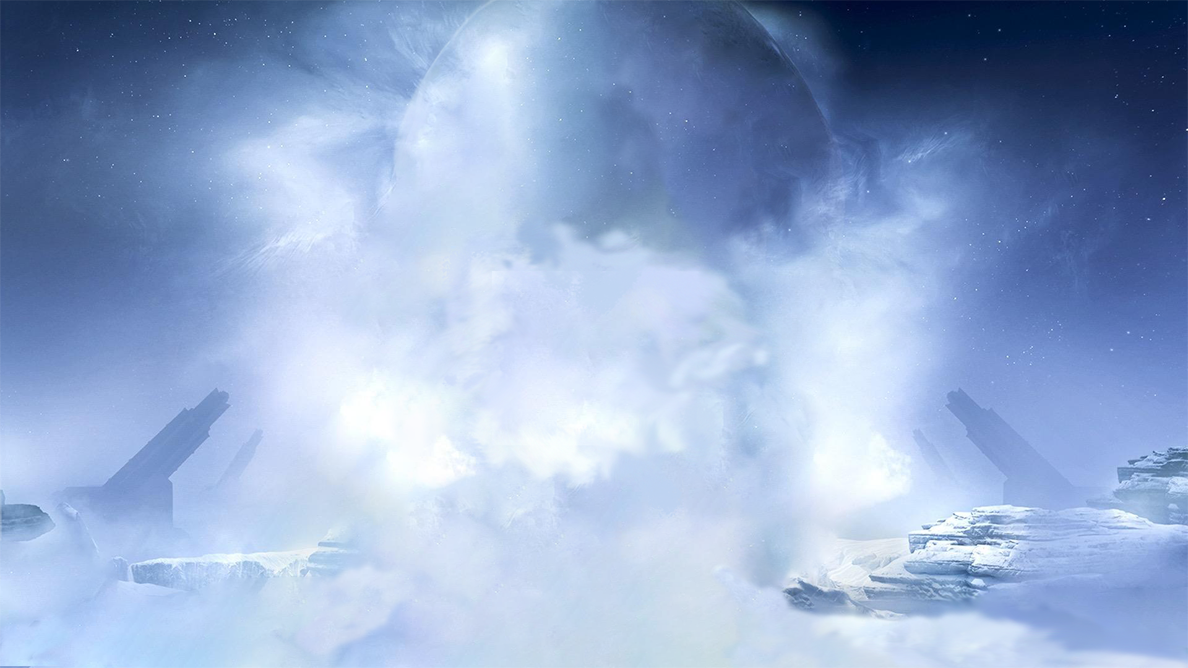
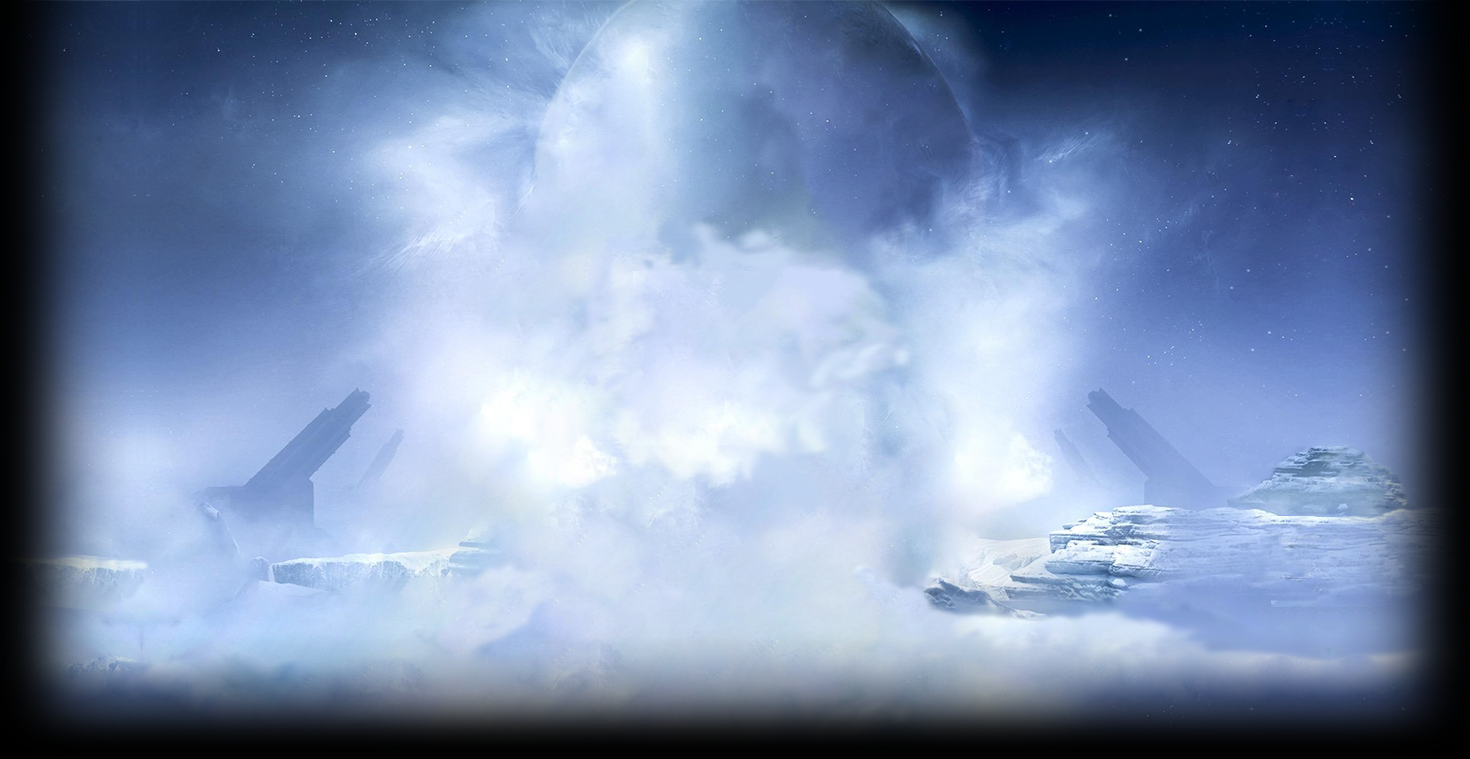
update destiny images and add more attribute to Button component

diff --git a/src/components/Button/Button.tsx b/src/components/Button/Button.tsx
@@ -5,15 +5,27 @@ type ButtonProps = {
   children: React.ReactNode;
   className?: string;
   onClick?: () => void;
+  type?: 'button' | 'submit' | 'reset';
+  title?: string;
+  ref?: React.RefObject<HTMLButtonElement>;
 };
 
 const Button: React.FC<ButtonProps> = ({
   children,
   className = '',
   onClick,
+  type,
+  title,
+  ref,
 }) => {
   return (
-    <button className={`${styles.container} ${className}`} onClick={onClick}>
+    <button
+      className={`${styles.container} ${className}`}
+      onClick={onClick}
+      type={type}
+      title={title}
+      ref={ref}
+    >
       {children}
     </button>
   );

diff --git a/src/components/games/Destiny/Destiny.module.css b/src/components/games/Destiny/Destiny.module.css
@@ -18,7 +18,7 @@
 
 .background {
   position: absolute;
-  top: calc(50% + 334px);
+  top: calc(50% + 380px);
   left: 50%;
   transform: translate(-50%, -50%);
   z-index: 1;
@@ -50,7 +50,7 @@
 
 .front {
   position: absolute;
-  top: calc(50% + 611px);
+  top: calc(50% + 650px);
   left: 50%;
   transform: translate(-50%, -50%);
   z-index: 8;
@@ -59,7 +59,7 @@
 .destiny {
   top: calc(50% + 240px);
   left: 50%;
-  width: 400px;
+  width: 650px;
   z-index: 4;
 }
 
